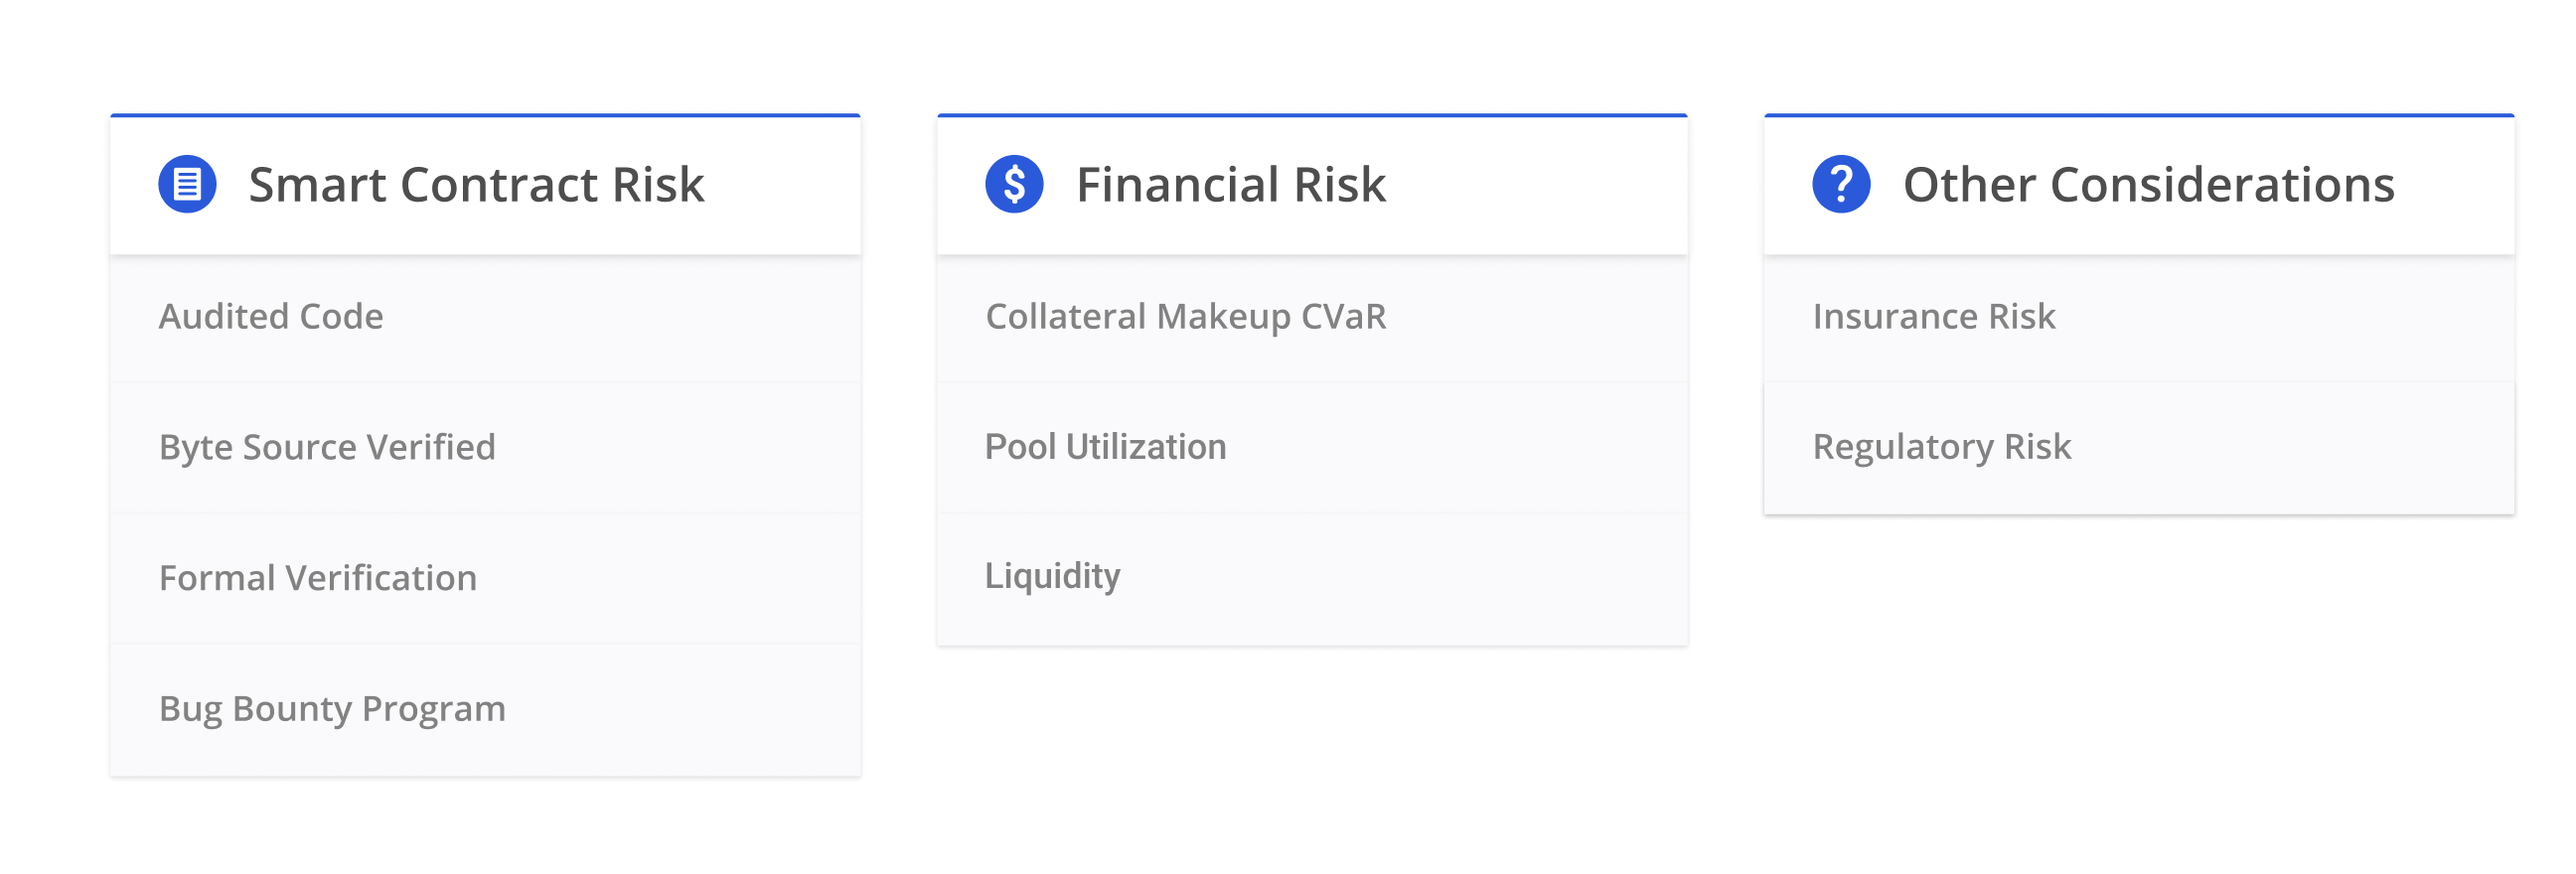
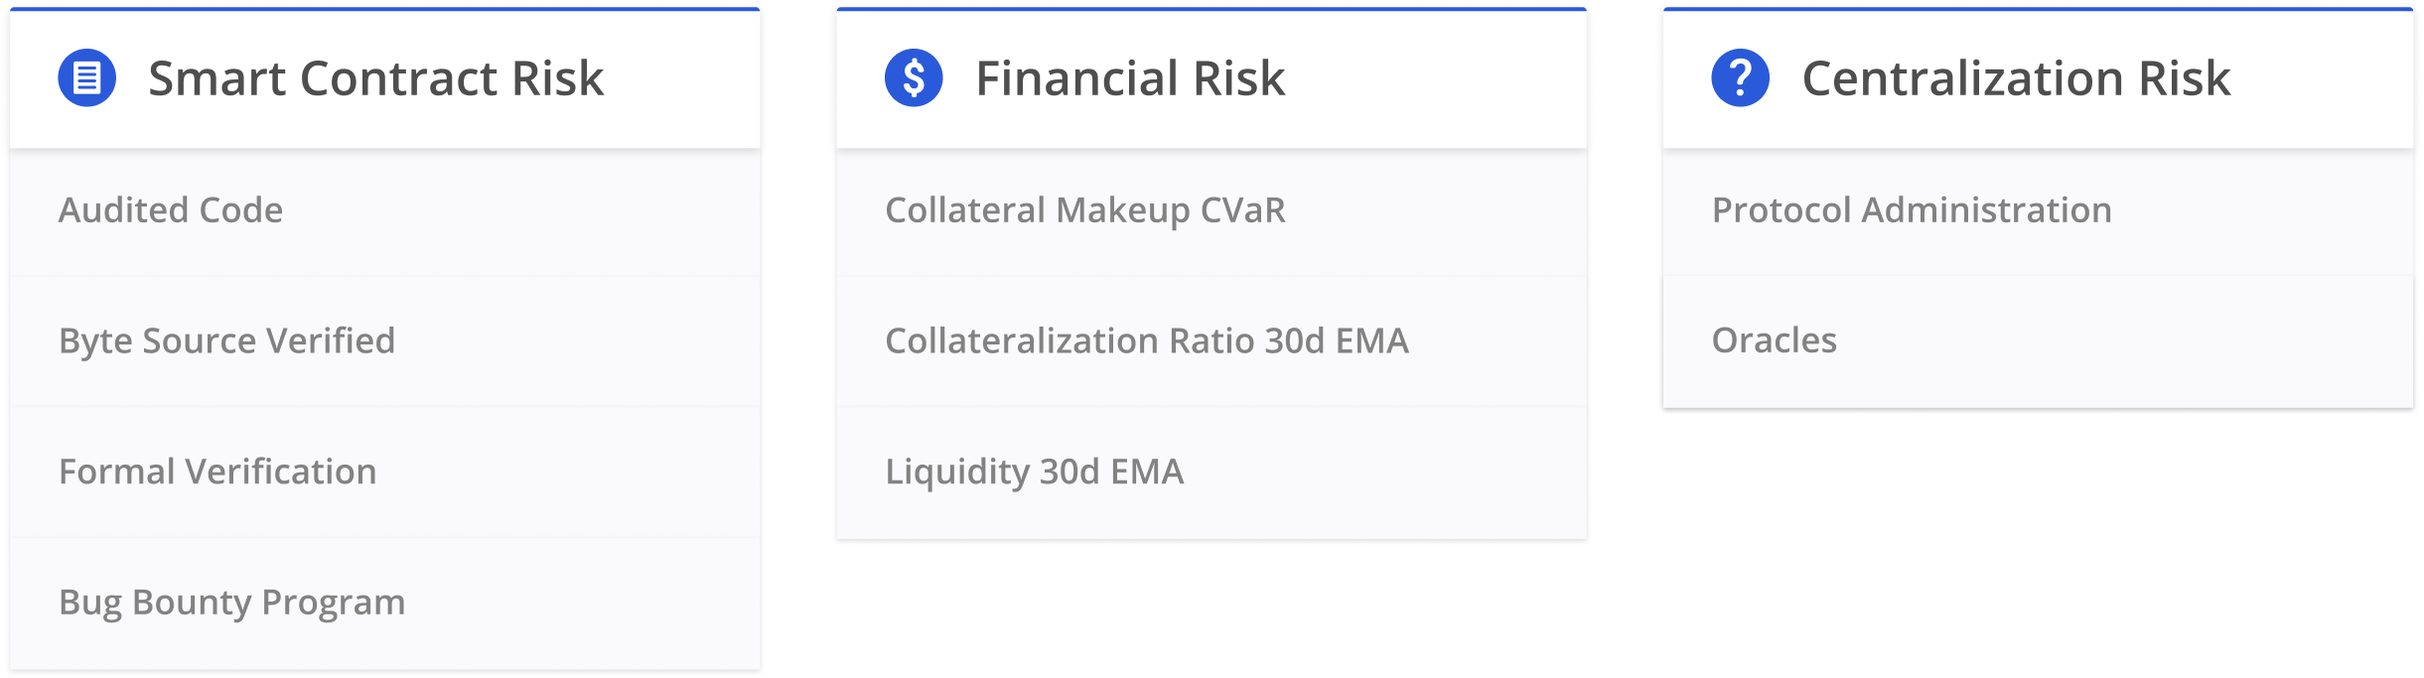
feat: Adding centralization risk component

diff --git a/implementation/constants.py b/implementation/constants.py
@@ -13,13 +13,13 @@ ddex_address = '0x241e82c79452f51fbfc89fac6d912e021db1a3b7'
 # methodology based weights
 weights = {
     'auditedCode': 0.25,
-    'allCodeOSS': 0.15,
+    'allCodeOSS': 0.1,
     'formalVer': 0.05,
     'hasBugBounty': 0.05,
     'cVaR': 0.1,
-    'poolCollateralization': 0.15,
+    'poolCollateralization': 0.1,
     'poolLiquidity': 0.1,
-    'insuranceRisk': 0.15
+    'centralizationRisk': 0.25
 }
 
 # Setting values for off-chain data about protocols
@@ -29,7 +29,7 @@ compound_values = {
  'isCodeOpenSource': 1,
  'isCodeFormallyVerified': 1,
  'hasBugBounty': 1,
- 'insuranceRisk': 0
+ 'centralizationRisk': 0.375
 }
 
 dydx_values = {
@@ -37,7 +37,7 @@ dydx_values = {
  'isCodeOpenSource': 1,
  'isCodeFormallyVerified': 0,
  'hasBugBounty': 1,
- 'insuranceRisk': 0
+ 'centralizationRisk': 0.625
 }
 
 fulcrum_values = {
@@ -45,7 +45,7 @@ fulcrum_values = {
  'isCodeOpenSource': 1,
  'isCodeFormallyVerified': 0,
  'hasBugBounty': 1,
- 'insuranceRisk': 0
+ 'centralizationRisk': 0.625
 }
 
 nuo_values = {
@@ -54,7 +54,7 @@ nuo_values = {
  'isCodeOpenSource': 1,
  'isCodeFormallyVerified': 0,
  'hasBugBounty': 0,
- 'insuranceRisk': 0
+ 'centralizationRisk': 0.375
 }
 
 ddex_values = {
@@ -63,7 +63,7 @@ ddex_values = {
  'isCodeOpenSource': 1,
  'isCodeFormallyVerified': 0,
  'hasBugBounty': 1,
- 'insuranceRisk': 0
+ 'centralizationRisk': 0.5
 }
 
 

diff --git a/implementation/__main__.py b/implementation/__main__.py
@@ -15,7 +15,7 @@ def calculate_score(protocol, token, liquidity_value, collateral_value):
         protocol_values = constants.ddex_values
     
     weights = constants.weights
-    score = weights['auditedCode'] * protocol_values['isCodeAudited'] + weights['allCodeOSS'] * protocol_values['isCodeOpenSource'] + weights['formalVer'] * protocol_values['isCodeFormallyVerified'] + weights['hasBugBounty'] * protocol_values['hasBugBounty'] + weights['cVaR'] * protocol_values['cvar'] + weights['poolCollateralization'] * collateral_value + weights['poolLiquidity'] * liquidity_value
+    score = weights['auditedCode'] * protocol_values['isCodeAudited'] + weights['allCodeOSS'] * protocol_values['isCodeOpenSource'] + weights['formalVer'] * protocol_values['isCodeFormallyVerified'] + weights['hasBugBounty'] * protocol_values['hasBugBounty'] + weights['cVaR'] * protocol_values['cvar'] + weights['poolCollateralization'] * collateral_value + weights['poolLiquidity'] * liquidity_value + weights['centralizationRisk'] * protocol_values['centralizationRisk']
     score = round(score, 2) * 10
     score = "{:.1f}".format(score)
     result = {

diff --git a/README.md b/README.md
@@ -40,21 +40,26 @@ The DeFi Score methodology can be organized into Smart Contract Risk, Financial 
   2. **Formal Verification:** Has the code been formally verified by a reputable security team?
   3. **Bounty Program:** Does the development team offers a public bug bounty program?
 
-* #### Smart Contract Openness (15%)
+* #### Smart Contract Openness (10%)
   Part of the promise of DeFi is that the functionality of smart contracts is completely on-chain, which means they are verifiable and transparent. Developers of DeFi platforms still have the ability to obscure their code in various ways, such as not verifying the bytecode and using off chain oracles processes. Security through obscurity offers weak security guarantees at best, and at worst results in delays in finding critical bugs.
 
 ### II. Financial Risk
 
-* #### Collateral (25%)
+* #### Collateral (20%)
   While all of the current platforms use very conservative collateral factors, the highly volatile nature of crypto assets means that these high collateral factors may still be insufficient. Collateral Risk is assessed by looking at two pieces of data, both derivable from on-chain data. The first data point is the utilization rate. The second data point is an analysis of the collateral portfolio using the CVaR (Conditional Value at Risk) model, also known as the Expected Shortfall model.
 
 * #### Liquidity (10%)
   The currently scoped platforms all attempt to incentive liquidity by using dynamic interest rate models which produce varying rates depending on the level of liquidity in each asset pool. However, incentivized liquidity does not mean guaranteed liquidity. The absolute level of liquidity is used. 
 
-### III. Other Considerations
+### III. Centralization Risk
 
-* #### Insurance/Regulatory Risk (15%)
-  While there are some promising innovations in the DeFi insurance space, none are widespread or mature enough yet. Also, none of these platforms’ development teams are actually decentralized yet and none have been approved by the United States or other nations’ banking/finance regulatory bodies yet.
+* #### Protocol Administration (12.5%)
+
+One of the biggest sponsors to centralization risk in DeFi protocols is the use of admin keys. Admin keys allow protocol developers to change different parameters of their smart contract systems like oracles, interest rates and potentially more. Protocol developer’s’ ability to alter these contract parameters allows them to cause financial loss to users. Measures like timelocks and multi-signature wallets help mitigate the risk of financial loss due to centralized elements. Mult-signature wallets help mitigate this risk by distributing control to a larger number of developers, meaning that the loss or compromise of a single private key cannot compromise the entire system. Timelocks help mitigate risk by allowing protocol users to exit their positions before a change can take place.
+
+* #### Oracles (12.5%)
+
+Another large element of centralization risk in these protocols is oracle centralization. There are many different flavors of oracle systems being used to power these protocols. Some protocols use a fully self-operated oracle system while others use externally operated oracles like Uniswap and Kyber. [Samczsun’s writeup](https://samczsun.com/taking-undercollateralized-loans-for-fun-and-for-profit/) on oracles and their ability to cause financial loss provides good background information. The oracle centralization score is not focused on whether these price feeds are manipulatable or not (they all are), but whether a single entity can manipulate them with ease. In the self-operated model, it only takes the oracle owner to manipulate its data. Decentralized oracles can’t be manipulated in the same way, but may not always represent the fair market value for an asset, which is why developers building on top of decentralized oracles opt to use price volatility bounds to defend against these types of attacks.
 
 
 ## Further Reading:
